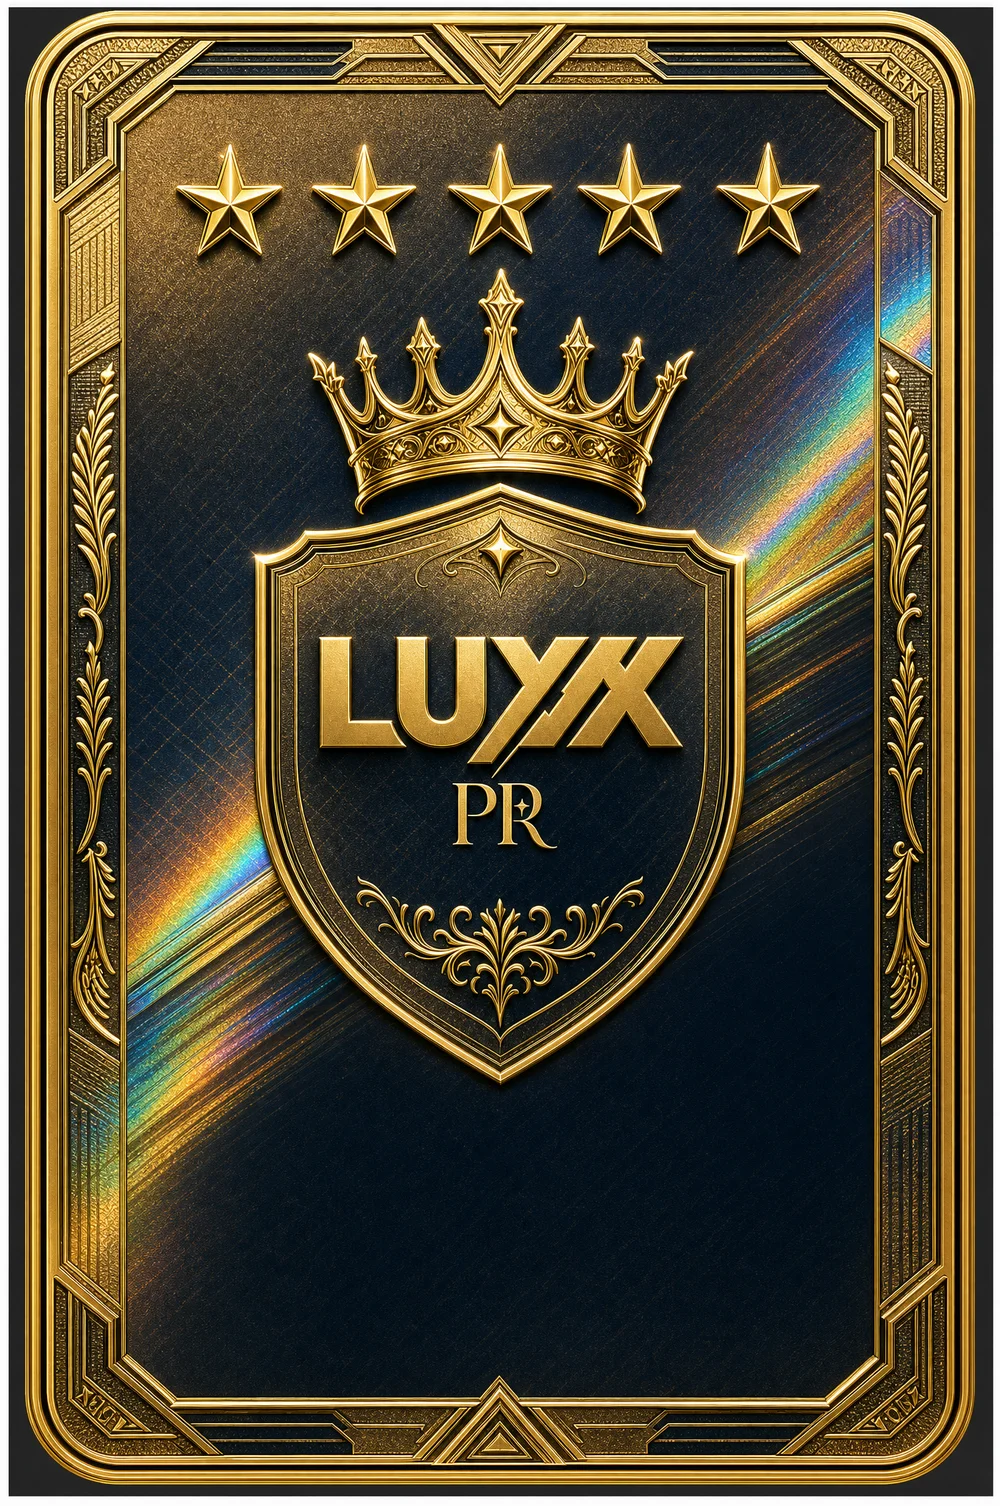
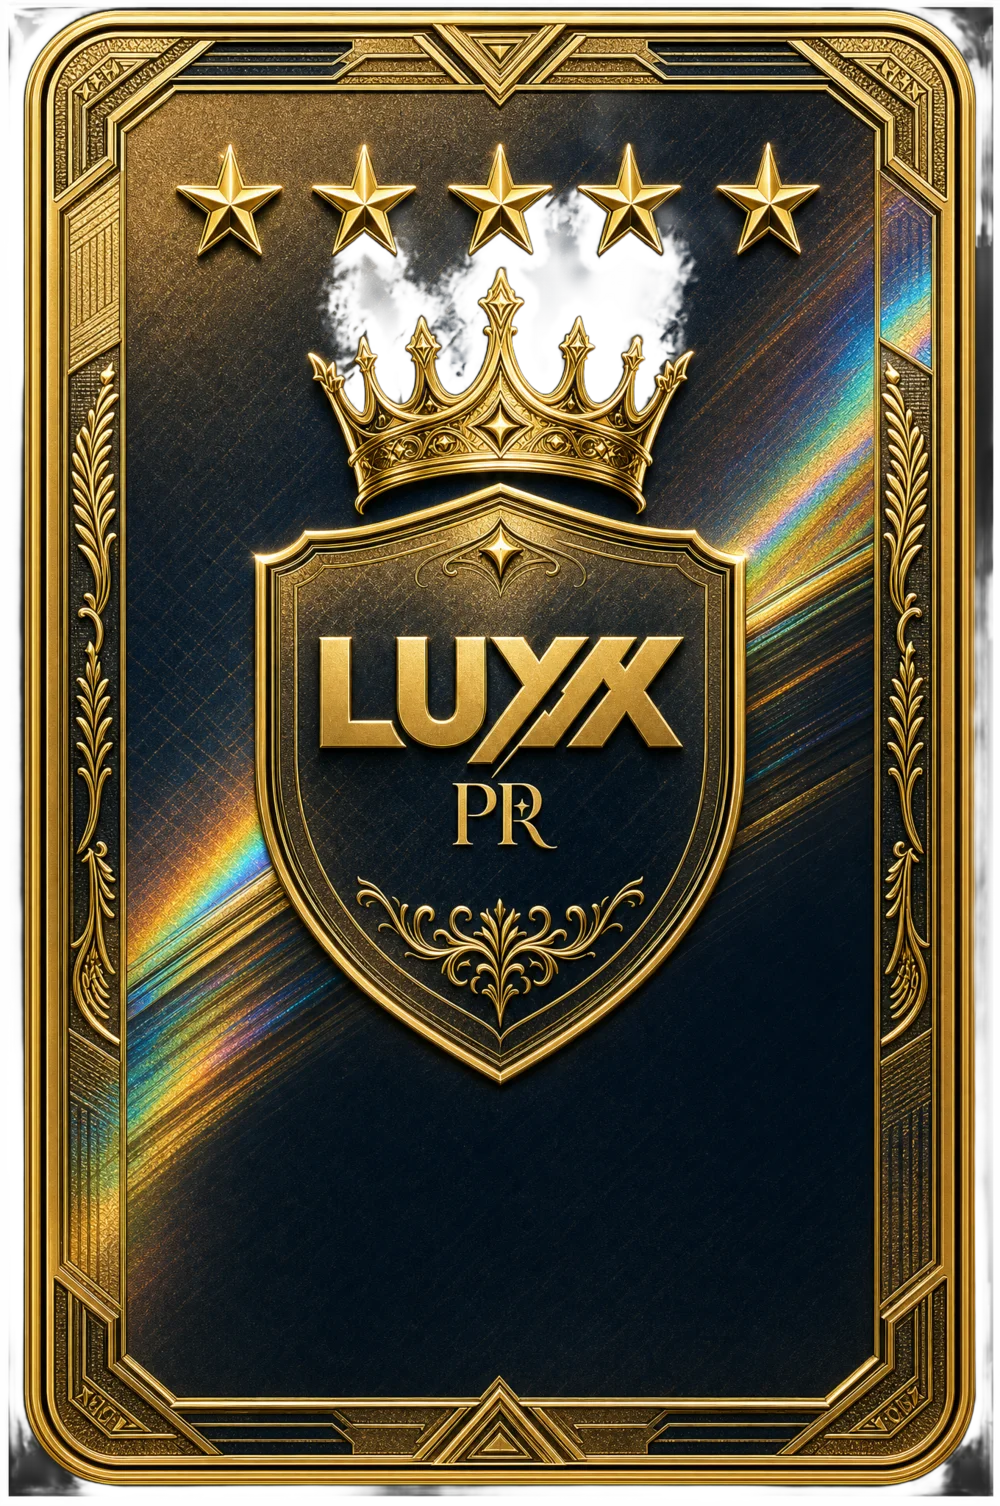
feat: add fireBurst confetti effect on card load and update landing text

diff --git a/app/page.tsx b/app/page.tsx
@@ -393,27 +393,31 @@ export default function Home() {
     }
   }, [showSecret])
 
+  function fireBurst() {
+    const palette = ["#d4a847", "#e8c35a", "#f5e6b8", "#ffffff", "#fffef0", "#0d1b3e", "#1a2f5e", "#102040"]
+    const pieces = Array.from({ length: 60 }, (_, i) => {
+      const angle = Math.random() * Math.PI * 2
+      const dist = 120 + Math.random() * 200
+      return {
+        id: i,
+        tx: Math.cos(angle) * dist,
+        ty: Math.sin(angle) * dist,
+        rot: (Math.random() - 0.5) * 900,
+        color: palette[Math.floor(Math.random() * palette.length)],
+        size: 7 + Math.random() * 9,
+        delay: Math.random() * 0.12,
+        round: Math.random() > 0.6,
+      }
+    })
+    setConfetti(pieces)
+    setTimeout(() => setConfetti([]), 2200)
+  }
+
   function triggerSecret() {
     if (!showSecret) {
       setCardRevealed(true)
-      const palette = ["#d4a847", "#f5e6b8", "#ffffff", "#f59e0b", "#e8c35a", "#ffd700", "#9db9d5", "#ff6b6b"]
-      const pieces = Array.from({ length: 60 }, (_, i) => {
-        const angle = Math.random() * Math.PI * 2
-        const dist = 120 + Math.random() * 200
-        return {
-          id: i,
-          tx: Math.cos(angle) * dist,
-          ty: Math.sin(angle) * dist,
-          rot: (Math.random() - 0.5) * 900,
-          color: palette[Math.floor(Math.random() * palette.length)],
-          size: 7 + Math.random() * 9,
-          delay: Math.random() * 0.12,
-          round: Math.random() > 0.6,
-        }
-      })
-      setConfetti(pieces)
-      setTimeout(() => setConfetti([]), 2200)
       setShowSecret(true)
+      // Burst fires via onLoad on the card image — nothing to do here
     } else {
       // Hiding the card — send them into the free demo form
       setIsDemoMode(true)
@@ -673,7 +677,7 @@ export default function Home() {
     )
   }
 
-  // ── Landing Screen ─────��───────────────────────────────────────────────────
+  // ── Landing Screen ─────��───────────────────���───────────────────────────────
   if (showLanding) {
     return (
       <main
@@ -846,7 +850,7 @@ export default function Home() {
                     textShadow: "0 2px 24px rgba(0,0,0,0.5)",
                   }}
                 >
-                  You just got yourself a free demo!
+                  You just got yourself a free website demo!
                 </h2>
                 <div style={{ width: 60, height: 1, marginTop: 2, background: "linear-gradient(90deg, transparent, rgba(212,168,71,0.55), transparent)" }} />
               </div>
@@ -909,7 +913,7 @@ export default function Home() {
                   }}
                 >
 
-                  {/* FRONT FACE — full-bleed card artwork */}
+                  {/* FRONT FACE — transparent-bg artwork over dark background */}
                   <div style={{
                     position: "absolute", inset: 0,
                     borderRadius: 18, overflow: "hidden",
@@ -917,13 +921,15 @@ export default function Home() {
                     WebkitBackfaceVisibility: "hidden",
                     MozBackfaceVisibility: "hidden",
                     willChange: "transform",
+                    background: "linear-gradient(160deg, #0d1b2a 0%, #060e17 100%)",
                     boxShadow: "0 0 60px rgba(212,168,71,0.28), 0 0 120px rgba(212,168,71,0.10), 0 20px 50px rgba(0,0,0,0.5)",
                   }}>
                     <img
                       src="/images/card-front.webp"
                       alt="LUXX PR exclusive card — front"
                       draggable={false}
-                      style={{ position: "absolute", inset: 0, width: "100%", height: "100%", objectFit: "cover", display: "block" }}
+                      onLoad={fireBurst}
+                      style={{ position: "absolute", inset: 0, width: "100%", height: "100%", objectFit: "contain", display: "block" }}
                     />
                     {/* Holographic sheen sweep */}
                     <div className="luki-holo-sheen" style={{ position: "absolute", inset: 0, pointerEvents: "none" }} />
@@ -960,7 +966,7 @@ export default function Home() {
                 className="luki-claim-button"
                 style={{ marginTop: 26, position: "relative", zIndex: 2 }}
               >
-                Claim your free demo
+                Claim now
               </button>
             </div>
           )}